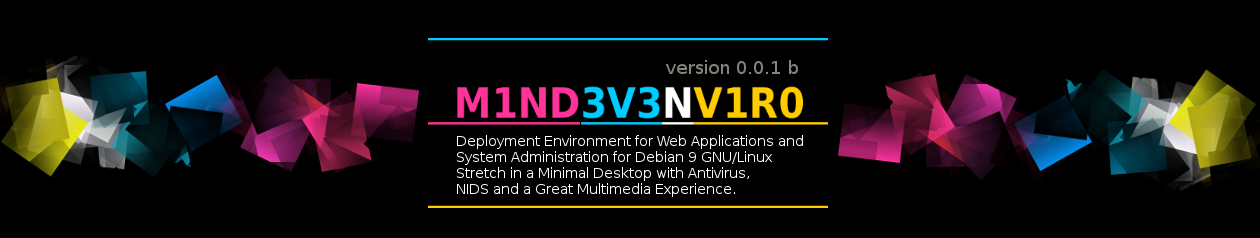
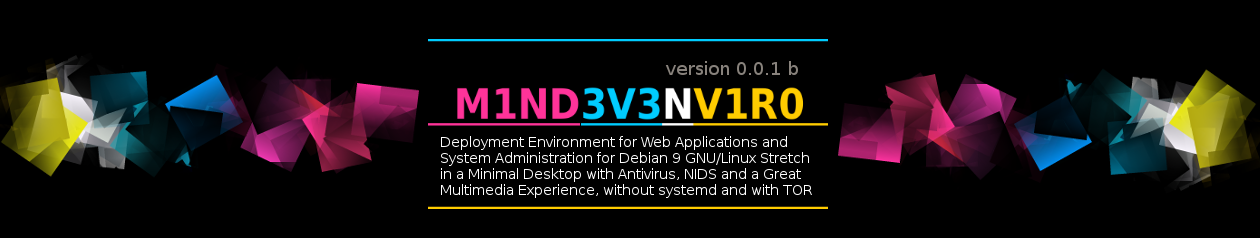
modified:   docs/README.md 	modified:   docs/manual/HELP.html 	modified:   docs/pics/title.png 	modified:   mde-setup 	modified:   pictures/mindevenviro.xpm testing TOR

diff --git a/docs/manual/HELP.html b/docs/manual/HELP.html
@@ -35,11 +35,11 @@ td.body {
 
 		codecounter: code without blank lines and without comments
 
-- Lines =4535
+- Lines =4533
 
-- Words =61374
+- Words =60543
 
-- Chars =269002
+- Chars =267393
 
 </pre>
 <ul>

diff --git a/docs/README.md b/docs/README.md
@@ -2,11 +2,11 @@
 
 		codecounter: code without blank lines and without comments
 
-- Lines =4535
+- Lines =4533
 
-- Words =61374
+- Words =60543
 
-- Chars =269002
+- Chars =267393
 
 # . 
 
